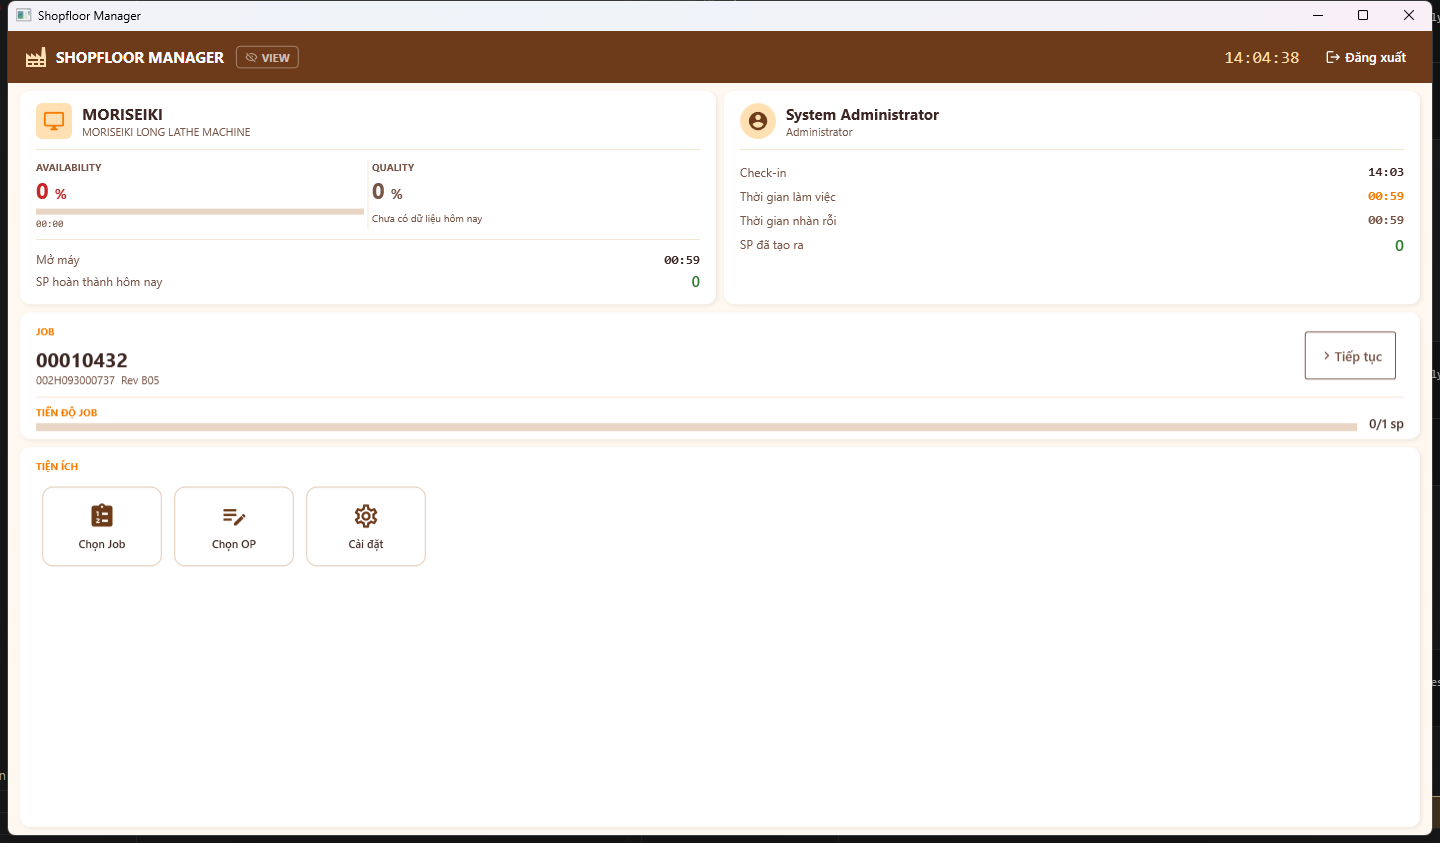
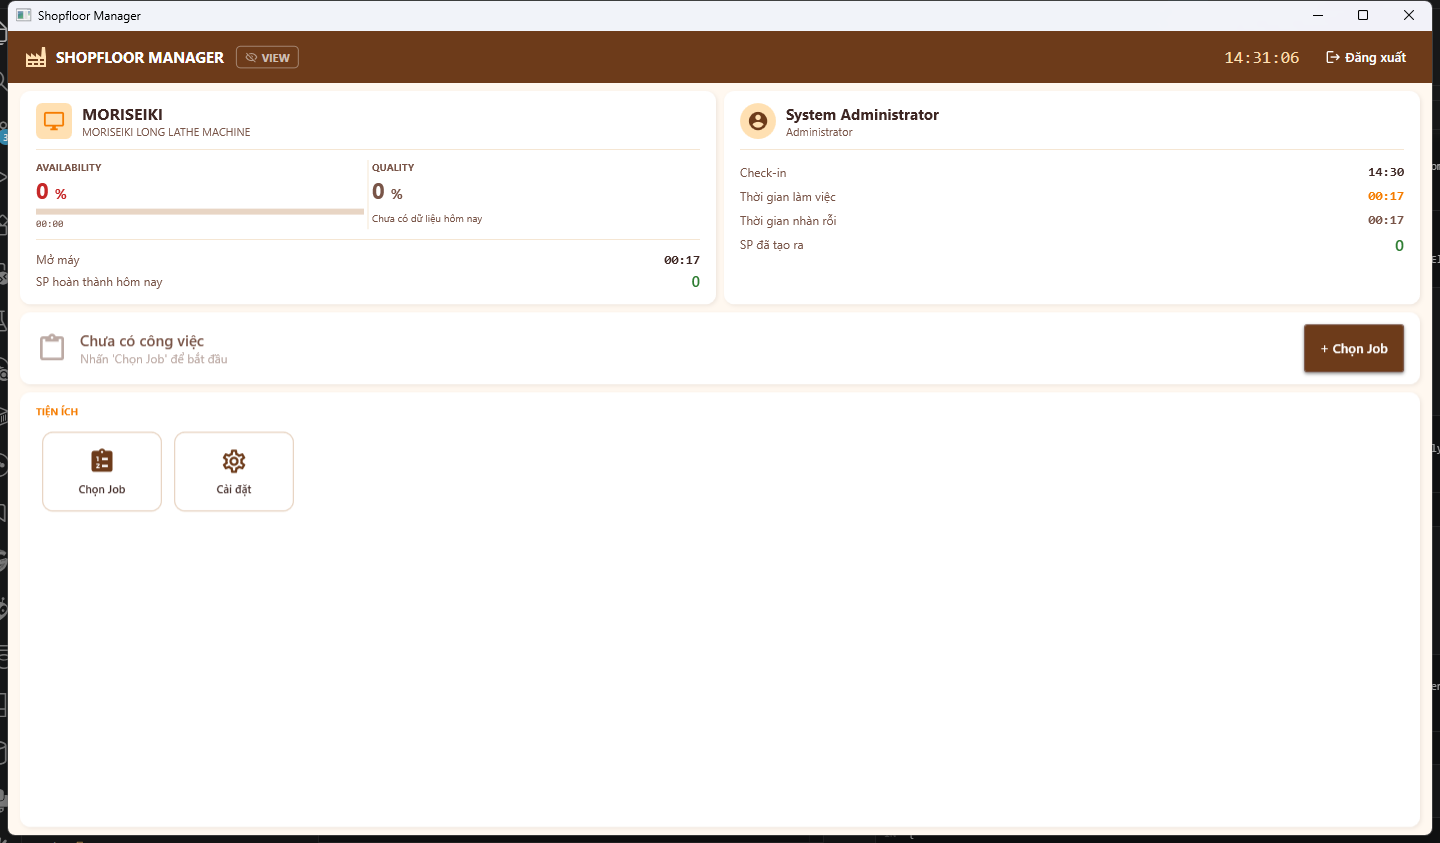
docs(readme): expand Desktop MES section with full page-by-page details
Rewrote the Desktop MES section from a brief overview (~70 lines) to a
comprehensive reference (~350 lines) covering: per-machine config, login
mode determination, Dashboard 5-state Work Info card, shortcuts grid with
conditions, Job/OP/Product selection screens, FAI entry layout with NumPad
and PASS/FAIL, virtual keyboard no-focus design, Document Viewer (G-code
highlighting + WebView2 PDF), Operation vs View Mode dual-context system,
NCR creation at machine, Settings page, SignalR events, and comparison
table with legacy Vinam-MES.

diff --git a/README.md b/README.md
@@ -190,48 +190,277 @@ Time filters: Day / Week / Month / Quarter.
 
 ### Desktop MES — WPF Touchscreen App
 
-A separate WPF application (`ShopfloorManager.Desktop`) installed on each CNC machine PC. Designed for 10–15" touchscreens; all buttons are ≥56px tall.
+A separate WPF application (`ShopfloorManager.Desktop`) installed on each CNC machine PC. Designed for 10–15" touchscreens; all interactive elements are ≥56px tall. Connects to the shared API over HTTP — **no direct database access**.
 
-**Login**
+#### Hardware & configuration
+
+Each machine PC has a `local.json` that overrides global settings:
+
+```json
+{
+  "ApiBaseUrl": "http://192.168.1.100:5066",
+  "MachineCode": "CNC-LINE1-03",
+  "MachineName": "MAZAK QTN-350 #3"
+}
+```
+
+`MachineCode` is used to tag every measurement record (traceability — know which machine produced which result) and to subscribe to the correct MQTT topic for real-time CNC data.
+
+---
+
+#### Login
 
 ![Desktop MES — Login](docs/screenshots/desktop-login.png)
 
-Per-machine configuration in `local.json`: `ApiBaseUrl`, `MachineCode`, `MachineName`. The app connects to the shared API — no direct database access.
+Standard JWT login (`POST /api/v1/auth/login`). Token is held **in-memory only** — never written to disk. On success, the app checks for an active session on this machine before navigating to the Dashboard.
 
-**Dashboard**
+**Login → mode determination:**
+
+| Machine state at login | Result |
+|---|---|
+| No active session | → **Operation Mode** (operator is free to work) |
+| Active session belonging to *this* user | → **Operation Mode** (session is resumed; WorkContext restored) |
+| Active session belonging to *another* user — role is `Leader` or `Administrator` | → **Operation Mode** (ForceFinish button visible) |
+| Active session belonging to *another* user — role is `Operator` / other | → **View Mode** (forced read-only; cannot be overridden) |
+
+---
+
+#### Dashboard
 
 ![Desktop MES — Dashboard](docs/screenshots/desktop-dashboard.png)
 
-The main screen after login shows:
-- **Machine card** (top-left) — availability %, quality %, uptime, parts made today
-- **Operator card** (top-right) — check-in time, work time, idle time, parts produced
-- **Work Info card** (center) — current Job / OP / Serial with Start / Stop / Navigate buttons
-- **Shortcuts** (bottom) — contextual quick-access to Select Job, Select OP, FAI Sheet, G-code Viewer, NCR, Settings
+The hub of the app — no sidebar navigation. Everything accessible from one screen.
 
-**Job Selection**
+**Four zones:**
+
+| Zone | Content |
+|---|---|
+| **Top bar** | Logo · MODE toggle chip · clock · logout |
+| **Machine card** (top-left) | Availability %, quality %, uptime today, parts completed today |
+| **Operator card** (top-right) | Check-in time, work time, idle time, parts produced |
+| **Work Info card** (center) | Job / OP / Serial + action button (context-aware) |
+| **Shortcuts grid** (bottom) | Icon buttons — role and context aware |
+
+**Work Info card — 5 exclusive states** (only one action button visible at any time):
+
+```
+State            Button shown          Condition
+─────────────────────────────────────────────────────────────────
+No job           [+ Chọn Job]          !HasWork && !CanForceFinish
+Has job/OP,      [Tiếp tục →]          CanNavigate && !CanForceFinish
+no serial
+Serial chosen,   [▶ Bắt đầu]           HasProduct && !IsWip
+not started
+Session active   [■ Kết thúc] + timer  CanStop && !CanForceFinish
+Another user's   [Kết thúc phiên X]    CanForceFinish (Leader/Admin)
+session
+```
+
+**Shortcuts — visibility rules:**
+
+| Shortcut | Visible when |
+|---|---|
+| Chọn Job | Always |
+| Chọn OP | HasJob |
+| Chọn sản phẩm | HasOp |
+| Xem bản vẽ / G-code / Hướng dẫn gá / CW | HasOp |
+| **Bảng đo** | Operation Mode + HasProduct + `session.StartedAt != null` |
+| Tạo NCR | HasProduct + Operation Mode (QC/Engineer/Admin) |
+| Cài đặt | Role = Administrator |
+
+*Shortcuts "Chọn Job/OP/Sản phẩm" are disabled (opacity 40%) while a session is in progress — prevents context switch mid-production. View Mode re-enables them (operates on separate ViewContext).*
+
+---
+
+#### Job Selection
 
 ![Desktop MES — Job List](docs/screenshots/desktop-joblist.png)
 
-Card-grid job browser (5 per row) with overdue highlighting (red date badge). Touch-optimized — swipe to scroll, large touch targets.
+Card grid (5 columns) showing active production orders. Each card shows job number, part number, revision, quantity, and ship date. **Red date badge** = overdue. Supports text search and drag-to-scroll.
 
-**Operation → Product → FAI workflow:**
+---
 
-1. Operator selects **Job** → **Operation** → **Product serial**
-2. Presses **Start** → creates a `ProductionSession` (API records timestamp)
-3. Opens **FAI Sheet** — dimension card grid (balloon numbers, nominal, tolerances)
-4. Taps a dimension card → virtual **NumPad** appears (for numeric) or **PASS/FAIL** buttons (for text type)
-5. Confirms measurement → auto-advances to next unmeasured dimension
-6. When all dimensions measured → presses **Stop** → session closed
-7. Any FAIL → **NCR dialog** opens immediately at the machine
+#### Operation List
 
-**Document Viewer:**
-- G-code files rendered with syntax highlighting (N/G/M/axis/feed/tool in different colors) inside a `RichTextBox`
-- PDF files (drawings, route cards) rendered natively via **WebView2** (Edge PDF viewer)
+After selecting a job, the operator chooses which operation they are performing:
 
-**Session rules:**
-- Only one active session per machine at a time
-- `Leader` and `Administrator` roles can force-finish another operator's session
-- Other users login during an active session → View Mode (read-only browse, no production input)
+```
+┌─────────────────────────────────────────────────────┐
+│  OP 10 — Inspection                                 │
+│  Setup: 0.5h  |  Run: 0.1h                          │
+│  [📐 Bản vẽ]  [📋 Route Card]                      │
+└─────────────────────────────────────────────────────┘
+┌─────────────────────────────────────────────────────┐
+│  OP 20 — Turning                                    │
+│  Setup: 2.0h  |  Run: 4.0h                          │
+│  [💾 G-code]  [🔩 Fixture]                          │
+└─────────────────────────────────────────────────────┘
+```
+
+Each OP card shows: operation number, type, setup/run times, and document availability badges. The list combines template operations (from `RoutingRev`) and any job-specific operations (`ForJobOnly = true`).
+
+---
+
+#### Product Serial Selection
+
+After selecting an operation, the operator selects which product serial they are machining:
+
+```
+┌──────────┐  ┌──────────┐  ┌──────────┐  ┌──────────┐
+│   001    │  │   002    │  │   003    │  │   004    │
+│   ○      │  │   ⚙      │  │   ✓      │  │   ✓      │
+│ READY    │  │ IN PROG  │  │ COMPLETE │  │ COMPLETE │
+└──────────┘  └──────────┘  └──────────┘  └──────────┘
+```
+
+Four card states (color-coded):
+
+| Color | State | Meaning |
+|---|---|---|
+| Gray | Ready | Available to select |
+| Amber | In Progress | Currently being machined (this machine) |
+| Orange | Locked | Being machined on another machine |
+| Green | Complete | FAI finished |
+
+**Session constraints** (enforced server-side):
+- One active session per **product** — a serial being machined elsewhere cannot be claimed.
+- One active session per **machine** — starting a second session on the same machine is blocked.
+
+---
+
+#### FAI Measurement Entry
+
+The core feature. After pressing **Start**, the operator measures each dimension:
+
+```
+┌─────────────────────────────────┬─────────────────────────┐
+│  DIMENSION CARDS (55% width)    │  INPUT PANEL (45%)      │
+│                                 │                         │
+│  ┌────┐ ┌────┐ ┌────┐ ┌────┐   │  Balloon:  Ø5           │
+│  │ 1  │ │ 2  │ │ 3  │ │ 4  │   │  Nominal:  25.0000      │
+│  │PASS│ │FAIL│ │    │ │    │   │  Min:      24.9800      │
+│  │25.0│ │25.3│ │    │ │    │   │  Max:      25.0200      │
+│  └────┘ └────┘ └────┘ └────┘   │                         │
+│  Green   Red   Gray  Gray       │  ┌──────────────────┐   │
+│                                 │  │  [7] [8] [9]     │   │
+│  ┌────┐ ┌────┐                  │  │  [4] [5] [6]     │   │
+│  │ 5  │ │Ra1 │                  │  │  [1] [2] [3]     │   │
+│  │    │ │TEXT│                  │  │  [±] [0] [.]     │   │
+│  └────┘ └────┘                  │  └──────────────────┘   │
+│  Gray  (PASS/FAIL)              │  [ ✓ Confirm ]          │
+└─────────────────────────────────┴─────────────────────────┘
+```
+
+**Measurement rules:**
+- **Numeric dimensions** — NumPad input → Confirm → `Pass` if `min ≤ value ≤ max`, else `Fail`.
+- **Text dimensions** (`IsTextType = true`) — PASS/FAIL buttons, auto-save immediately; no confirm step.
+- **Final dimensions** (`IsFinal = true`) — visible but disabled for Operators; only QC Inspectors can enter.
+- **Already measured** (`IsInputLocked`) — card shows previous value in gray; input panel fully disabled with amber notice. Each measurement creates a new record — history is preserved.
+
+On **Fail**: an NCR dialog opens immediately, requiring the operator to select a reason category before proceeding.
+
+Auto-advance: after confirming a measurement, focus moves to the next unmeasured dimension automatically.
+
+---
+
+#### Virtual Keyboard
+
+Two keyboard types, both implemented as floating `WS_EX_NOACTIVATE` windows (focused TextBox never loses focus):
+
+- **NumPad** — numeric input with `±`, `.`, backspace. Floats near the input field.
+- **QWERTY** — full keyboard with CapsLock toggle and numeric panel. Used for search fields and NCR descriptions.
+
+Both keyboards support **drag** via a handle strip at the top (`ReleaseCapture` + `WM_NCLBUTTONDOWN` trick — avoids `DragMove()` which would steal focus).
+
+---
+
+#### Document Viewer
+
+Accessible from operation shortcuts (Drawing, G-code, Route Card, Fixture):
+
+- **G-code** — `RichTextBox` with syntax highlighting: N=gray, G=blue, M=purple, X/Y/Z=orange, F/S=green, T/H/D=teal, comments=gray. Renders up to 5,000 lines.
+- **PDF** (drawings, route cards) — native PDF rendering via **Microsoft WebView2** (Edge PDF engine; zoom/pan built-in). Documents are downloaded from MinIO via pre-signed URL.
+
+Only `Status = Approved` documents are shown to operators.
+
+---
+
+#### Operation Mode vs View Mode
+
+Two modes allow operators to browse production records without disrupting an active session.
+
+```
+Operation Mode                    View Mode
+────────────────────────────       ────────────────────────────
+WorkContext: CurrentJob/Op/Prod    WorkContext: ViewJob/Op/Prod
+                                   (independent slot)
+Navigation writes CurrentJob...    Navigation writes ViewJob...
+Session Start/Stop available       No session operations
+Shortcuts act on current context   Shortcuts act on view context
+FAI sheet accessible               FAI shortcut hidden
+```
+
+**MODE toggle chip** (top bar, always visible):
+- Brown background + "VIEW" text → Operation Mode
+- Orange `#FF8F00` background + "VIEW MODE" text → View Mode
+- Chip is dimmed (opacity 40%) and non-clickable when **forced** View Mode (another user's session + Operator role)
+
+**Forced View Mode** — when an Operator logs in while another user has an active session on that machine, they are placed in View Mode automatically and cannot toggle out. A `Leader` or `Administrator` can use the ForceFinish button to end the other session.
+
+**Dual context** — the two context slots are completely independent. Toggling mode does not clear or copy between them. View context persists until logout.
+
+---
+
+#### NCR Creation at Machine
+
+When a measurement fails, an NCR dialog appears:
+
+1. Select reason from dropdown (15 seeded categories: Tool wear, Setup error, Drawing error, …)
+2. Select department responsible (PROD / QC / ENG)
+3. Enter optional description
+4. Submit → `POST /api/v1/ncrs` → NCR number generated (`NCR-{YY}-{NNNN}`)
+5. QC Inspector receives a real-time notification via **SignalR**
+
+---
+
+#### Settings Page (Administrator only)
+
+Accessible from the shortcuts grid when logged in as `Administrator`:
+
+- Edit `ApiBaseUrl`, `MachineCode`, `MachineName`
+- **Test Connection** button — verifies the new URL with a fresh `HttpClient` (not the shared singleton)
+- Save → writes `local.json` at `AppContext.BaseDirectory`
+- API URL change requires app restart (the singleton `HttpClient` was created with the old URL); other fields apply immediately
+
+---
+
+#### Real-time Updates (SignalR)
+
+After login, the app connects to `/hub/shopfloor` and joins groups by role:
+
+| Event | Received by | Action |
+|---|---|---|
+| `ncr-created` | QC Inspector | Toast notification + badge count |
+| `job-status-changed` | All | Refresh job list |
+| `measure-submitted` | Engineer, QC | Update FAI progress counter |
+| `document-approved` | All | Refresh document availability |
+
+---
+
+#### Comparison: Legacy Vinam-MES vs Shopfloor Manager Desktop
+
+| Feature | Vinam-MES (WinForms) | Shopfloor Manager (WPF) |
+|---|---|---|
+| Data access | Direct MySQL queries | REST API only |
+| Documents | FTP download | MinIO pre-signed URL |
+| Authentication | MD5 + MySQL | JWT (8h expiry) |
+| Notifications | Teams webhook (polling) | SignalR (push) |
+| Measure history | Upsert — last value only | New record every measurement |
+| Measure precision | `FLOAT` | `DECIMAL(14,4)` |
+| Offline mode | No | No (planned Phase 4b) |
+| UI framework | WinForms + Guna2 | WPF + MaterialDesignThemes |
+| Virtual keyboard | Custom WinForms | Custom WPF (no-focus window) |
+| PDF viewer | PdfiumViewer | WebView2 (Edge) |
 
 ---
 